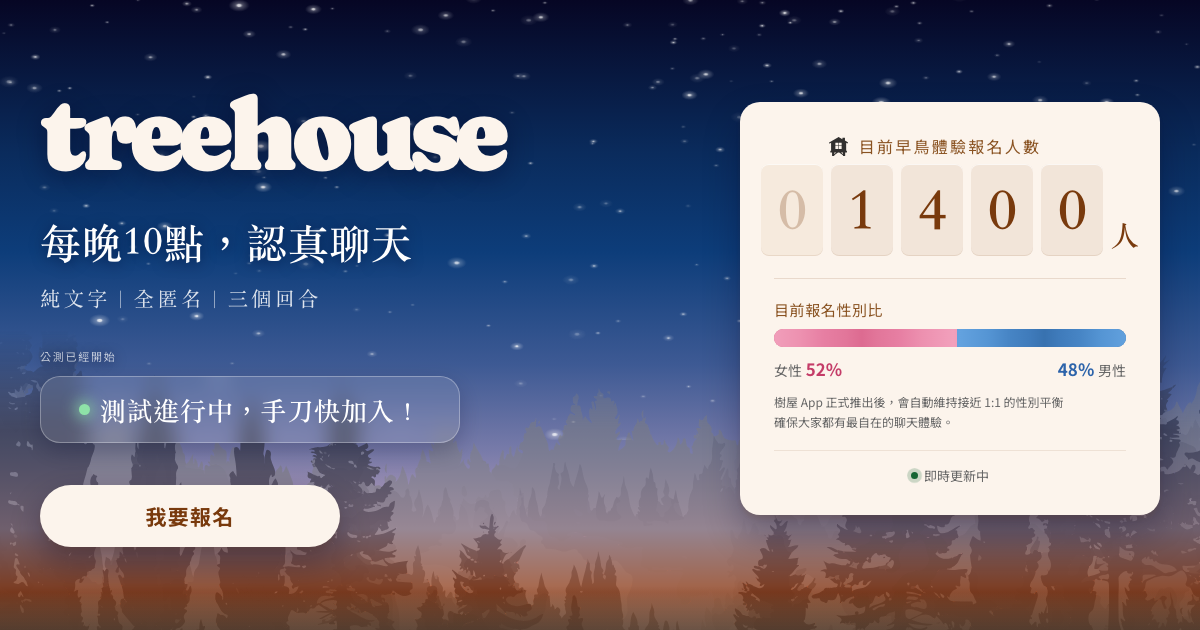
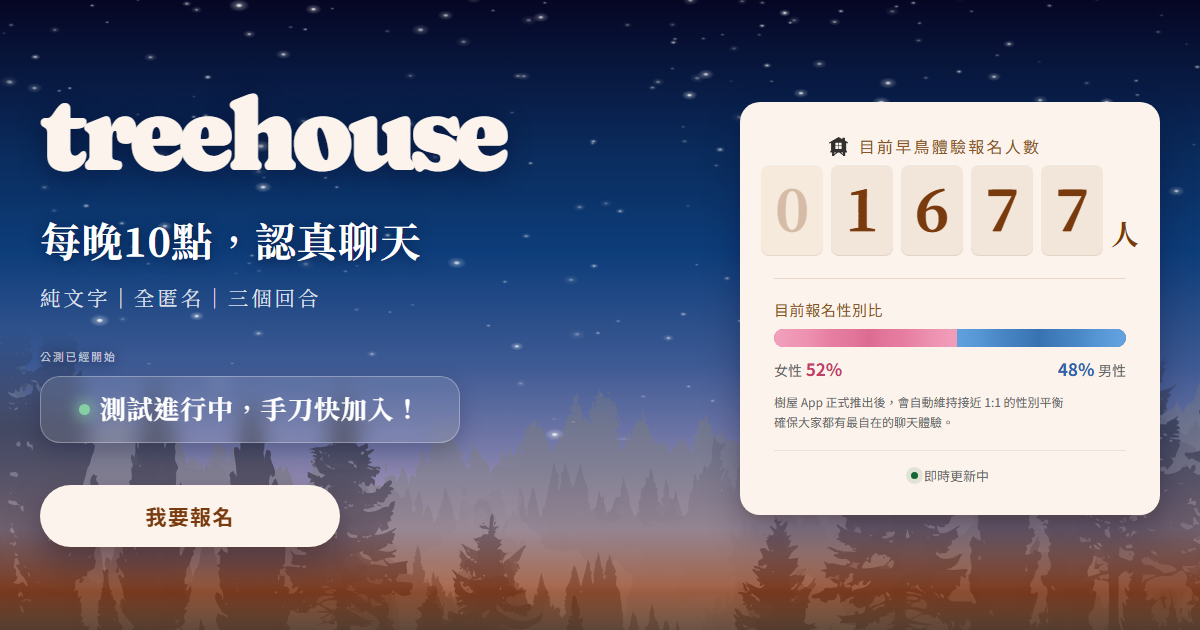
chore(join): refresh share card at 1677 signups
Card was stuck at 1400 while the live count had reached 1677, which Morgan
found unconvincing. Ratio shows 52/48, within the 52-53 band.

diff --git a/join/index.html b/join/index.html
@@ -102,8 +102,8 @@
             <span><img class="signboard__mark" src="/assets/img/house-mark.svg" alt="" width="15" height="15">目前早鳥體驗報名人數</span>
           </p>
           <p class="signboard__count">
-            <span class="odo" id="signupNumber" role="img" aria-label="1400" data-value="1400">
-              <b class="odo__d odo__d--lead">0</b><b class="odo__d">1</b><b class="odo__d">4</b><b class="odo__d">0</b><b class="odo__d">0</b>
+            <span class="odo" id="signupNumber" role="img" aria-label="1677" data-value="1677">
+              <b class="odo__d odo__d--lead">0</b><b class="odo__d">1</b><b class="odo__d">6</b><b class="odo__d">7</b><b class="odo__d">7</b>
             </span>
             <span class="signboard__unit">人</span>
           </p>

diff --git a/assets/join.config.js b/assets/join.config.js
@@ -20,7 +20,7 @@ window.JOIN_CONFIG = {
     // 明顯是錯的。現在改成每次跑 tools/build-og-image.sh 重截分享卡時自動對齊當下真值
     // （腳本會讀 __JOIN_DEBUG__.lastGoodFetch.sheet），所以這裡通常不用手改。
     // 要調整起算人數仍然是改 Sheet 的 B2。
-    baseValue: 1400,
+    baseValue: 1677,
     round: "floor",             // "floor" 無條件捨去到整數；"none" 不處理（Sheet 應該本來就是整數）
 
     // ⚠ 這份試算表會被公開讀取（Google 的 gviz 端點要求整份表可公開存取）。
